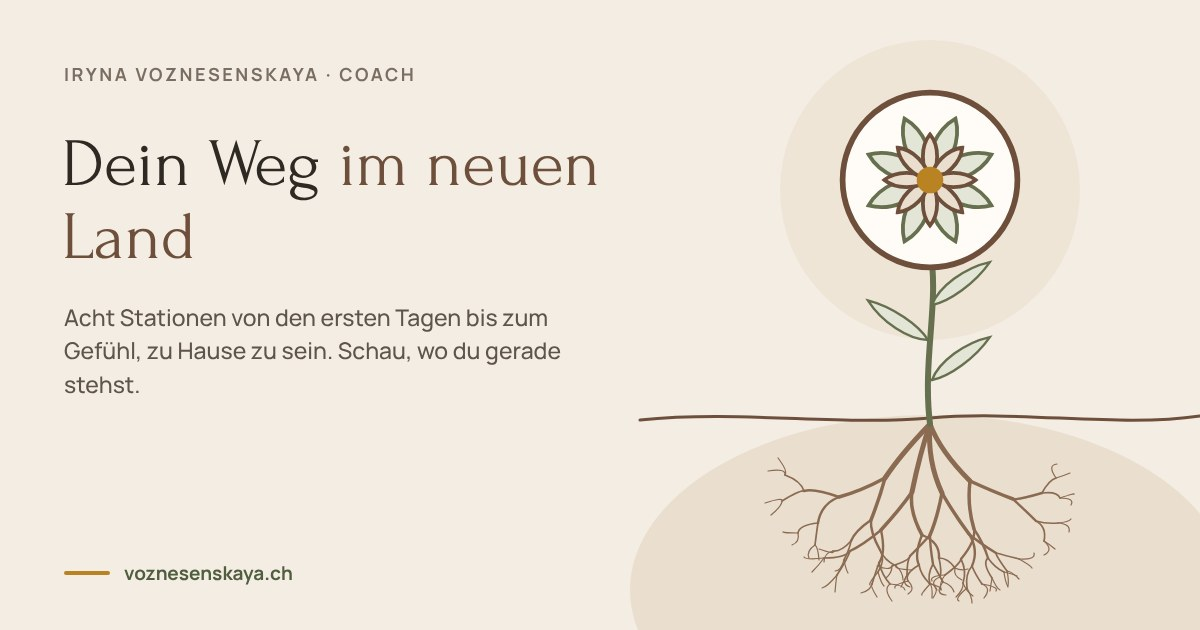
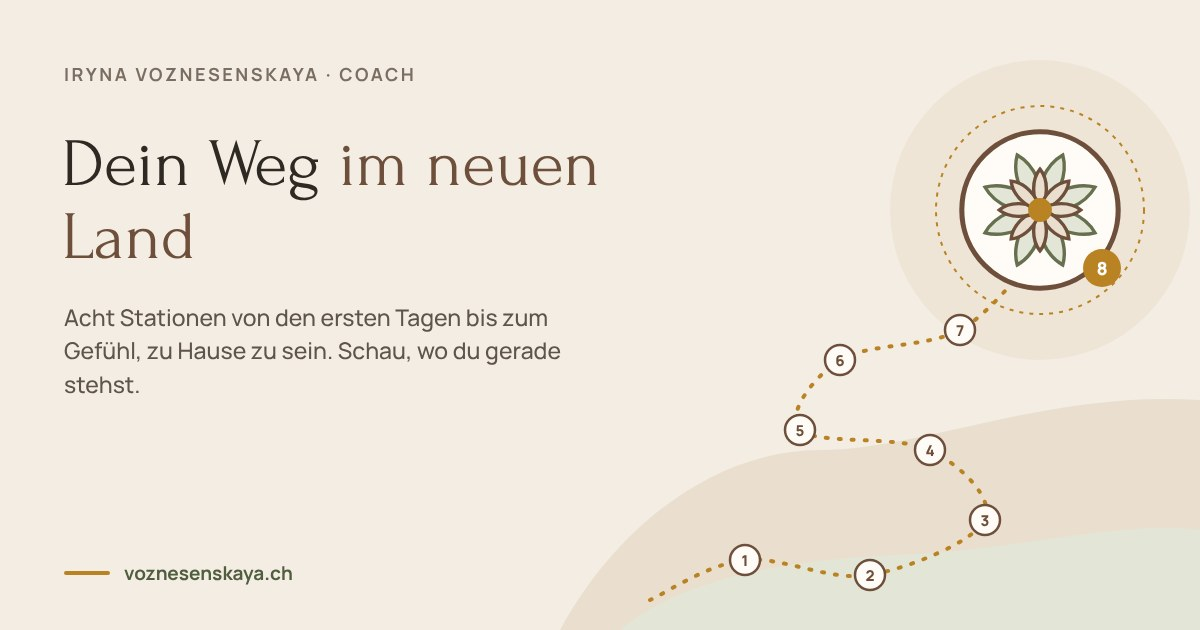
Превью «Пути»: тропа из восьми стоянок к эдельвейсу, RU/UK/DE/EN
Claude-Session: https://claude.ai/code/session_01L8FgNH5bqspkKpc5DvmGpt

diff --git a/_i18n/og.js b/_i18n/og.js
@@ -2,6 +2,7 @@
 // Правило Ирины (07.10.2026): у КАЖДОЙ страницы своя картинка-превью 1200×630, на языке страницы.
 //   Без фотографий (Ирина будет менять фото на сайте). Рисунок «Пустить корни» (выбран Ириной 07.10.2026):
 //   эдельвейс из логотипа на стебле, под землёй расходятся корни. Слева текст страницы.
+//   «Путь» (решение Ирины 07.10.2026): тропа из восьми стоянок, восьмая стоянка — эдельвейс из логотипа.
 //   Пишет {папка}/og-image.jpg (русский) и og-image.{uk,de,en}.jpg; pages.py сам ставит их в языковые страницы.
 //   Тесты (kompas, stupeni, …) открываются на всех языках по одному адресу — у них своя картинка с веером разбора.
 //   `node _i18n/og.js check` — найдёт страницы без превью.
@@ -14,7 +15,7 @@ const CARDS = [
     uk: ['Не готові поради, а <em>твій власний</em> шлях', 'Ти переїхала, і життя ніби стало на паузу. Його можна знову запустити.'],
     de: ['Keine fertigen Ratschläge, sondern <em>dein eigener</em> Weg', 'Du bist umgezogen, und das Leben scheint auf Pause zu stehen. Du kannst es wieder in Gang bringen.'],
     en: ['Not ready-made advice, but <em>your own</em> path', 'You moved, and life seems to have been put on pause. You can start it again.'] },
-  { out: 'put/og-image',
+  { out: 'put/og-image', art: trail,
     ru: ['Твой путь <em>в новой стране</em>', 'Восемь стоянок от первых дней до чувства дома. Посмотри, где ты сейчас.'],
     uk: ['Твій шлях <em>у новій країні</em>', 'Вісім зупинок від перших днів до відчуття дому. Подивися, де ти зараз.'],
     de: ['Dein Weg <em>im neuen Land</em>', 'Acht Stationen von den ersten Tagen bis zum Gefühl, zu Hause zu sein. Schau, wo du gerade stehst.'],
@@ -43,7 +44,18 @@ function art() {
 <path d="M640 ${ground} C740 ${ground - 10} 840 ${ground + 6} 930 ${ground - 2} S1120 ${ground + 8} 1200 ${ground - 4}" fill="none" stroke="#6E4F3C" stroke-width="3" stroke-linecap="round"/>${roots}
 <path d="M${gx} ${ground + 4} C${gx - 8} 360 ${gx + 10} 300 ${gx} 250" stroke="#66704F" stroke-width="6" fill="none" stroke-linecap="round"/>${leaves}${logo(gx, 180, 190)}`;
 }
-function html(eb, h, p) {
+function trail() {   // «Путь»: тропа из восьми стоянок, восьмая — эдельвейс
+  const pts = [[650, 600], [745, 560], [870, 575], [985, 520], [930, 450], [800, 430], [840, 360], [960, 330], [1040, 250]];
+  let d = `M${pts[0][0]} ${pts[0][1]}`;
+  for (let i = 0; i < pts.length - 1; i++) { const p0 = pts[i - 1] || pts[i], p1 = pts[i], p2 = pts[i + 1], p3 = pts[i + 2] || p2;
+    d += ` C${(p1[0] + (p2[0] - p0[0]) / 6).toFixed(0)} ${(p1[1] + (p2[1] - p0[1]) / 6).toFixed(0)} ${(p2[0] - (p3[0] - p1[0]) / 6).toFixed(0)} ${(p2[1] - (p3[1] - p1[1]) / 6).toFixed(0)} ${p2[0]} ${p2[1]}`; }
+  const hills = `<path d="M560 630 C620 520 720 450 820 450 S1050 390 1200 400 L1200 630Z" fill="#EADFCF"/><path d="M620 630 C680 580 780 560 900 555 S1120 520 1200 530 L1200 630Z" fill="#E3E6D6"/>`;
+  const stops = pts.slice(1, 8).map(([x, y], i) => `<circle cx="${x}" cy="${y}" r="15" fill="#FFFCF8" stroke="#6E4F3C" stroke-width="2.5"/><text x="${x}" y="${y + 6}" text-anchor="middle" font-family="Manrope" font-weight="800" font-size="15" fill="#6E4F3C">${i + 1}</text>`).join('');
+  const [lx, ly] = pts[8];
+  return `<circle cx="${lx}" cy="${ly - 40}" r="150" fill="#EFE5D6"/>${hills}<path d="${d}" fill="none" stroke="#B98324" stroke-width="4" stroke-dasharray="2 11" stroke-linecap="round"/>${stops}
+<circle cx="${lx}" cy="${ly - 40}" r="104" fill="none" stroke="#B98324" stroke-width="2" stroke-dasharray="4 6"/>${logo(lx, ly - 40, 170)}<circle cx="${lx + 62}" cy="${ly + 18}" r="19" fill="#B98324"/><text x="${lx + 62}" y="${ly + 25}" text-anchor="middle" font-family="Manrope" font-weight="800" font-size="18" fill="#fff">8</text>`;
+}
+function html(eb, h, p, drawing = art) {
   const plain = h.replace(/<[^>]+>/g, ''); const fs_ = plain.length > 48 ? 54 : plain.length > 30 ? 62 : 68;
   return `<html><head><meta charset="utf-8"><link rel="stylesheet" href="file://${ROOT}/assets/fonts.css"><style>*{margin:0;box-sizing:border-box}
 body{width:1200px;height:630px;overflow:hidden;position:relative;font-family:Manrope,sans-serif;background:#F4EDE3;color:#2F2924}em{font-style:normal;color:#6E4F3C}
@@ -51,7 +63,7 @@ body{width:1200px;height:630px;overflow:hidden;position:relative;font-family:Man
 .tx{position:absolute;left:62px;top:128px;width:600px}h1{width:600px;font-family:Forum,Georgia,serif;font-weight:400;font-size:${fs_}px;line-height:1.08}
 p{margin:26px 0 0 2px;width:540px;font-size:23px;line-height:1.45;color:#5D554D;font-weight:500}
 .u{position:absolute;left:64px;bottom:44px;display:flex;align-items:center;gap:14px;font-size:19px;font-weight:700;color:#4F5E3E}.u:before{content:"";width:46px;height:4px;border-radius:2px;background:#B98324}</style></head>
-<body><svg style="position:absolute;left:0;top:0" width="1200" height="630">${art()}</svg><div class="eb">${eb}</div><div class="tx"><h1>${h}</h1><p>${p}</p></div><div class="u">voznesenskaya.ch</div></body></html>`;
+<body><svg style="position:absolute;left:0;top:0" width="1200" height="630">${drawing()}</svg><div class="eb">${eb}</div><div class="tx"><h1>${h}</h1><p>${p}</p></div><div class="u">voznesenskaya.ch</div></body></html>`;
 }
 function check() {
   const miss = []; const walk = d => { for (const f of fs.readdirSync(d, { withFileTypes: true })) { const p = path.join(d, f.name);
@@ -68,7 +80,7 @@ function check() {
   const tmp = path.join(ROOT, '_i18n', '.og_tmp.html');
   for (const c of CARDS) for (const l of ['ru', 'uk', 'de', 'en']) {
     const out = c.out + (l === 'ru' ? '.jpg' : `.${l}.jpg`);
-    fs.writeFileSync(tmp, html(EB[l], ...c[l])); await pg.goto('file://' + tmp); await pg.evaluate(() => document.fonts.ready); await pg.waitForTimeout(300);
+    fs.writeFileSync(tmp, html(EB[l], c[l][0], c[l][1], c.art || art)); await pg.goto('file://' + tmp); await pg.evaluate(() => document.fonts.ready); await pg.waitForTimeout(300);
     await pg.screenshot({ path: path.join(ROOT, out), type: 'jpeg', quality: 88 }); console.log('ok', out);
   }
   fs.rmSync(tmp, { force: true }); await b.close();

diff --git a/_i18n/JOURNAL.md b/_i18n/JOURNAL.md
@@ -8,3 +8,4 @@
 | 07.10.2026 | Отзывы № 7–9 возвращены (решение Ирины: отзывы настоящие, письменные подтверждения клиенток пришлёт) | Возвращены на UK, DE, EN — главная и assets/reviews.*.js | — |
 | 07.10.2026 | Превью ссылок: /rabota (переадресация на главную) получила og:image главной; добавлена проверка `node _i18n/og.js check` | Свои картинки-превью для главной и «Пути» на UK, DE, EN (og-image.{uk,de,en}.jpg, `_i18n/og.js`), pages.py ставит их в языковые страницы | — |
 | 07.10.2026 | Новые превью ссылок главной и «Пути» без фотографий — рисунок «Пустить корни» (эдельвейс из логотипа, под землёй корни), выбран Ириной; ими же пользуются /rabota, privacy, impressum | Картинки на UK, DE, EN собраны тем же скриптом `_i18n/og.js` | — |
+| 07.10.2026 | Превью «Пути»: тропа из восьми стоянок, восьмая — эдельвейс из логотипа (решение Ирины) | UK, DE, EN собраны тем же скриптом `_i18n/og.js` | — |
